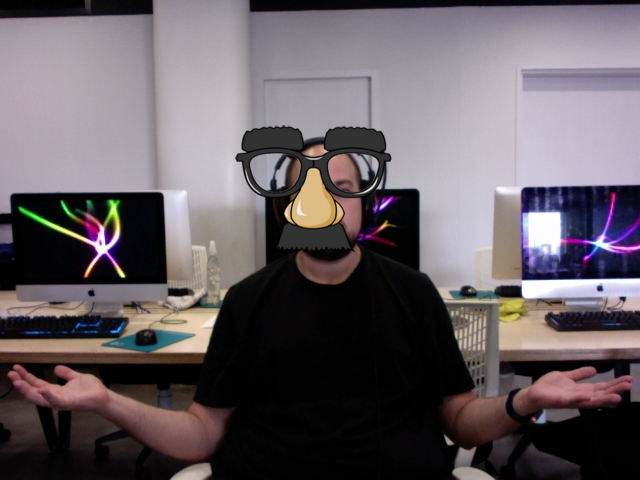
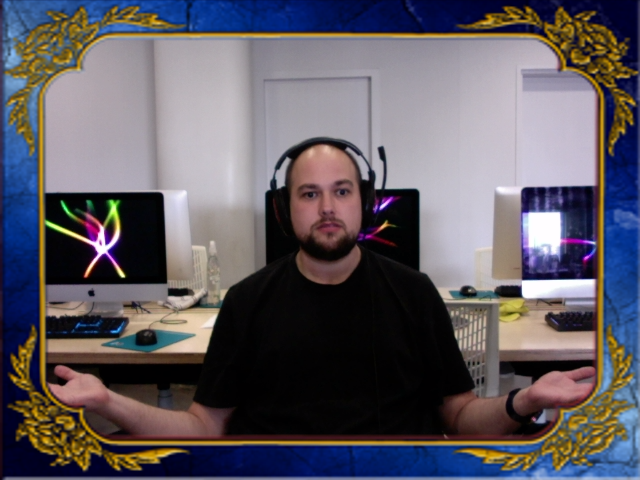
complete

diff --git a/video.php b/video.php
@@ -28,7 +28,6 @@
 		imagecopyresampled($im, $sticker, 0, 0, 0, 0, 640, 480, 640, 480);
 		imagepng($im, $_SESSION["username"]."new.png");
 	}
-	echo "<img width='640px' height='480px' style='position:absolute; z-index:2; top:10%' id='dadada'>";
 ?>
 <!DOCTYPE html>
 <html lang="en">
@@ -38,121 +37,129 @@
 		<button class="btn1" style="margin-top:10px; flex:1; width:100%" onclick="snap();">Take Picture</button>
 		<input id="add_gal" type="submit" name="addgal" class="btn1" value="Add to gallery">
 		<input  class="filters" style="width:100%; color:white; font-family:'K2D'; margin-top:10px" type="file" id="imageLoader" name="imageLoader"/><br>
-		<canvas class="webcamma" id="canvas" style="margin-top:10px"></canvas>
+		<div style='width:640px; height:480px; position:relative; z-index:2; color:white; font-family:K2D' id='canvdiv'>
+			<canvas class="webcamma" id="canvas"></canvas>
+		</div>
+		<div style='width:640px; height:50px; position:relative; z-index:2; color:white; font-family:K2D' id='errdiv'>
+		</div>
 	</div>
 	<div class="filterdiv" style="position:absolute; top:10%; left:700px;">
 		<?php
-			//$i = 0;
-			//$imarray = $db->returnRecord("SELECT * FROM images WHERE username = ".toQuote($_SESSION["username"]));
-			//while ($imarray[$i]){
-			//echo "<div style='position:relative; display:flex; flex-direction:column'><img style='width:380px;height:280px;margin:auto' src=".$imarray[$i]["image"]."></div><br>";
-			//	$i++;
-			//}
+			$i = 0;
+			$imarray = $db->returnRecord("SELECT * FROM images WHERE username = ".toQuote($_SESSION["username"]));
+			while ($imarray[$i]){
+			echo "<div style='position:relative; display:flex; flex-direction:column'><img style='width:380px;height:280px;margin:auto' src=".$imarray[$i]["image"]."></div><br>";
+				$i++;
+			}
 		?>
 	</div>
 	<div class="filterdiv" style="position:absolute; bottom:5%; left:700px">
-		<img src='./images/sticker1.png' id='sticker1' width='80%' onclick='setsticker(id)'>
-		<img src='./images/sticker2.png' id='sticker2' width='80%' onclick='setsticker(id)'>
-		<img src='./images/sticker3.png' id='sticker3' width='80%' onclick='setsticker(id)'>
-		<img src='./images/sticker4.png' id='sticker4' width='80%' onclick='setsticker(id);'>
+		<img src='./images/sticker1.png' id='sticker1' width='80%' onclick='addSticker(id)'>
+		<img src='./images/sticker2.png' id='sticker2' width='80%' onclick='addSticker(id)'>
+		<img src='./images/sticker3.png' id='sticker3' width='80%' onclick='addSticker(id)'>
+		<img src='./images/sticker4.png' id='sticker4' width='80%' onclick='addSticker(id);'>
 	</div>
-	<script type="text/javascript">
-		var video = document.getElementById('video');
-		var canvas = document.getElementById('canvas');
-		var context = canvas.getContext('2d');
-		var imageLoader = document.getElementById('imageLoader');
-    		imageLoader.addEventListener('change', handleImage, false);
-
-		navigator.getUserMedia = navigator.getUserMedia || navigator.webkitGetUserMedia ||
-		navigator.mozGetUserMedia || navigator.oGetUserMedia || navigator.msGetUserMedia;
-
-		if (navigator.getUserMedia){
-			navigator.getUserMedia({video:true}, streamWebCam, throwError);
-		}
-
-		function streamWebCam(stream){
-			video.srcObject = stream;
-			video.play();
-		}
-
-		function throwError(e){
-			alert(e.name);
-		}
-		function setsticker(id){
-			var stick = document.getElementById('dadada');
-			stick.setAttribute('src', './images/'+id+'.png');
-			var xhr = new XMLHttpRequest();
-			xhr.open('POST', 'video.php', true);
-				xhr.setRequestHeader('Content-type', 'application/json');
-				xhr.onreadystatechange = function (data) {
-				 	if (xhr.readyState == 4 && xhr.status == 200)
-				 		console.log(xhr.responseText);
-				 }
-				xhr.send(JSON.stringify(id))
-			snap();
-			replaceImage();
-
-		}
-		function snap(){
-			canvas.width = video.clientWidth;
-			canvas.height = video.clientHeight;
-			context.translate(canvas.width, 0);
-			context.scale(-1, 1);
-			context.save();
-			context.restore();
-			context.drawImage(video, 0, 0);
-			document.getElementById("canvas").style.transform = "rotateY(0deg)";
-			document.getElementById("imageLoader").value="";
-		}
-		var image = document.querySelector('canvas');
-
-		function handleImage(e){
-			var reader = new FileReader();
-			reader.onload = function(event){
-				var img = new Image();
-				img.onload = function(){
-					canvas.width = video.clientWidth;
-					canvas.height = video.clientHeight;
-					context.drawImage(img,0,0,img.width,img.height,0,0,canvas.width,canvas.height);
-				}
-				img.src = event.target.result;
-			}
-			reader.readAsDataURL(e.target.files[0]);
-			document.getElementById("canvas").style.transform = "rotateY(0deg)";
-		}
-		function download(){
-			var download = document.getElementById("download");
-			var image = document.getElementById("canvas").toDataURL("image/png")
-						.replace("image/png", "image/octet-stream");
-			
-			download.setAttribute("href", image);
-		}
-		function replaceImage(){
-			var src = "./<?php echo $_SESSION["username"]?>new.png"
-			var img1 = new Image();
-			img1.src = src;
-			canvas.width = video.clientWidth;
-			canvas.height = video.clientHeight;
-			context.drawImage(img1,0,0,640,480,0,0,canvas.width,canvas.height);
-		}
-
-		document.getElementById("add_gal").addEventListener("click", function(){
-			var img = new Image();
-			img.src = canvas.toDataURL();
-			if (canvas.width == video.clientWidth){
-				var json = {
-						pic: img.src
-					}
-					var xhr = new XMLHttpRequest();
-					xhr.open('POST', 'save.php', true);
-					xhr.setRequestHeader('Content-type', 'application/json');
-					xhr.onreadystatechange = function (data) {
-						if (xhr.readyState == 4 && xhr.status == 200)
-							console.log(xhr.responseText);
-					}
-					xhr.send(JSON.stringify(json))
-			}
-            });
-	</script>
 </body>
 </html>
+<script type="text/javascript">
+	var video = document.getElementById('video');
+	var canvas = document.getElementById('canvas');
+	var context = canvas.getContext('2d');
+	var imageLoader = document.getElementById('imageLoader');
+		imageLoader.addEventListener('change', handleImage, false);
+
+	navigator.getUserMedia = navigator.getUserMedia || navigator.webkitGetUserMedia ||
+	navigator.mozGetUserMedia || navigator.oGetUserMedia || navigator.msGetUserMedia;
+
+	if (navigator.getUserMedia){
+		navigator.getUserMedia({video:true}, streamWebCam, throwError);
+	}
+
+	function streamWebCam(stream){
+		video.srcObject = stream;
+		video.play();
+	}
+
+	function throwError(e){
+		alert(e.name);
+	}
+
+	function addSticker(id){
+		var sticker = new Image();
+		sticker.src = "./images/"+id+".png";
+		if (canvas.width == 640){
+			document.getElementById("errdiv").innerHTML = ""; 
+			context = canvas.getContext('2d');
+			context.drawImage(sticker,0,0,video.clientWidth, video.clientHeight);
+			img.src = canvas.toDataURL('image/png');
+			document.getElementById("canvdiv").innerHTML = "<img src="+img.src+">";
+		}
+		else{
+			document.getElementById("errdiv").innerHTML = "You need to add/take a picture first."; 
+		}
+	}
+
+	function snap(){
+		document.getElementById("errdiv").innerHTML = ""; 
+		canvas.width = video.clientWidth;
+		canvas.height = video.clientHeight;
+		context.translate(canvas.width, 0);
+		context.scale(-1, 1);
+		context.save();
+		context.restore();
+		context.drawImage(video, 0, 0);
+		document.getElementById("canvas").style.transform = "rotateY(0deg)";
+		document.getElementById("imageLoader").value="";
+	}
+	var image = document.querySelector('canvas');
+
+	function handleImage(e){
+		var reader = new FileReader();
+		reader.onload = function(event){
+			var img = new Image();
+			img.onload = function(){
+				canvas.width = video.clientWidth;
+				canvas.height = video.clientHeight;
+				context.drawImage(img,0,0,img.width,img.height,0,0,canvas.width,canvas.height);
+			}
+			img.src = event.target.result;
+		}
+		reader.readAsDataURL(e.target.files[0]);
+		document.getElementById("canvas").style.transform = "rotateY(0deg)";
+	}
+
+	function download(){
+		var download = document.getElementById("download");
+		var image = document.getElementById("canvas").toDataURL("image/png")
+					.replace("image/png", "image/octet-stream");
+		
+		download.setAttribute("href", image);
+	}
+
+	function replaceImage(){
+		var src = "./<?php echo $_SESSION["username"]?>new.png"
+		var img1 = new Image();
+		img1.src = src;
+		canvas.width = video.clientWidth;
+		canvas.height = video.clientHeight;
+		context.drawImage(img1,0,0,640,480,0,0,canvas.width,canvas.height);
+	}
+
+	document.getElementById("add_gal").addEventListener("click", function(){
+		var img = new Image();
+		img.src = canvas.toDataURL();
+		if (canvas.width == video.clientWidth){
+			var json = {
+					pic: img.src
+				}
+				var xhr = new XMLHttpRequest();
+				xhr.open('POST', 'save.php', true);
+				xhr.setRequestHeader('Content-type', 'application/json');
+				xhr.onreadystatechange = function (data) {
+					if (xhr.readyState == 4 && xhr.status == 200)
+						console.log(xhr.responseText);
+				}
+				xhr.send(JSON.stringify(json))
+		}
+		});
+</script>

diff --git a/image.php b/image.php
@@ -6,7 +6,7 @@
     }
     if ($_POST["comm-btn"]){
         if ($_POST["commbox"]){
-            $pattern = array("/;/", "/=/", "/\"/");
+            $pattern = array("#;#", "#=#", "#\"#");
             $replace = array("%1", "%2", "%3");
             $noinjectcomm = preg_replace($pattern, $replace, $_POST["commbox"]);
             $statement = "INSERT INTO comments (imageID, username, comment) VALUES (";
@@ -18,7 +18,7 @@
             $user = $out[0]["username"];
             $statement = "SELECT * FROM users WHERE username = ".toQuote($user);
             $out = $db->returnRecord($statement);
-            $message = $_SESSION["username"]." commented on your image. Go to 127.0.0.1:8080/image.PHP?imageID=".$_GET["imageID"]." to check it out!";
+            $message = $_SESSION["username"]." commented on your image. Go to 127.0.0.1:8080/camagru/image.PHP?imageID=".$_GET["imageID"]." to check it out!";
             if ($out[0]["notifications"]){
                 mail($out[0]["email"], "New Camagru Comment", $message);
             }
@@ -29,7 +29,7 @@
     echo "<div class='imagediv' style='top:10%'><img src=".$imarray[0]["image"].">";
     echo "<div class='commdiv'>";
     foreach ($commarray as $something){
-        $pattern = array("/(%1)/", "/(%2)/", "/(%3)/");
+        $pattern = array("#(%1)#", "#(%2)#", "#(%3)#");
         $replace = array(";", "=", "\"");
         $noinjectcomm = preg_replace($pattern, $replace, $something["comment"]);
         $out = "(".$something["date"].") ".$something["username"].": ".$noinjectcomm;

diff --git a/usergal.php b/usergal.php
@@ -1,0 +1,33 @@
+<?php
+    // ini_set('display_errors', 'On');
+    include("header.php");
+    if ($_POST){
+        $num = array_search('Delete Image', $_POST);
+        $statement = "DELETE FROM `images` WHERE imageID = ".toQuote($num);
+        $db->runStatement($db->getDBConn(),$statement);
+    }
+    $imagelimit = 5;
+    $out2 = $db->returnRecord("SELECT * FROM images WHERE username = ".toQuote($_SESSION["username"]));
+    $total = count($out2);
+    if(isset($_GET["page"])){
+        $page = $_GET["page"];
+        $i = ($_GET["page"] - 1 )* $imagelimit;
+    }
+    else{
+        $i = 0;
+        $page = 1;
+    }
+    $pages = ceil($total / $imagelimit);
+    echo "<div class='galdiv' style='top:120%'>";
+    while ($i < $imagelimit*$page && $out2[$i]){
+        echo "<div class='imagediv'><img src=".$out2[$i]["image"]."></div>";
+        echo "<br><form method='post' action=''><input type='submit' name='".$out2[$i]["imageID"]."' class='btn1' value='Delete Image'></form>";
+        $i++;
+    }
+    echo "<br><div class='imagediv' style='bottom:0%'>";
+    for ($x = 1; $x <= $pages; $x++){
+        echo "<a href='usergal.php?page=$x'>$x</a>"."\t";
+    }
+    echo "</div>";
+    echo "</div>";
+?>

diff --git a/header.php b/header.php
@@ -17,6 +17,9 @@
     else if($_POST["settings-btn"]){
         header('Location: settings.php');
     }
+    else if($_POST["usergal-btn"]){
+        header('Location: usergal.php');
+    }
 ?>
 <head>
     <title>Camagru</title>
@@ -30,6 +33,7 @@
                     if($_SESSION["username"] != "")
                     {
                         echo '<td><input type="submit" class="header_button" name="user-btn" value="Camera"></td>';
+                        echo '<td><input type="submit" class="header_button" name="usergal-btn" value="'.$_SESSION["username"].'\'s Images"></td>';
                     }
                 ?>
             </tr>

diff --git a/index.php b/index.php
@@ -27,6 +27,3 @@
     echo "</div>";
 
 ?>
-<html>
-
-</html>
